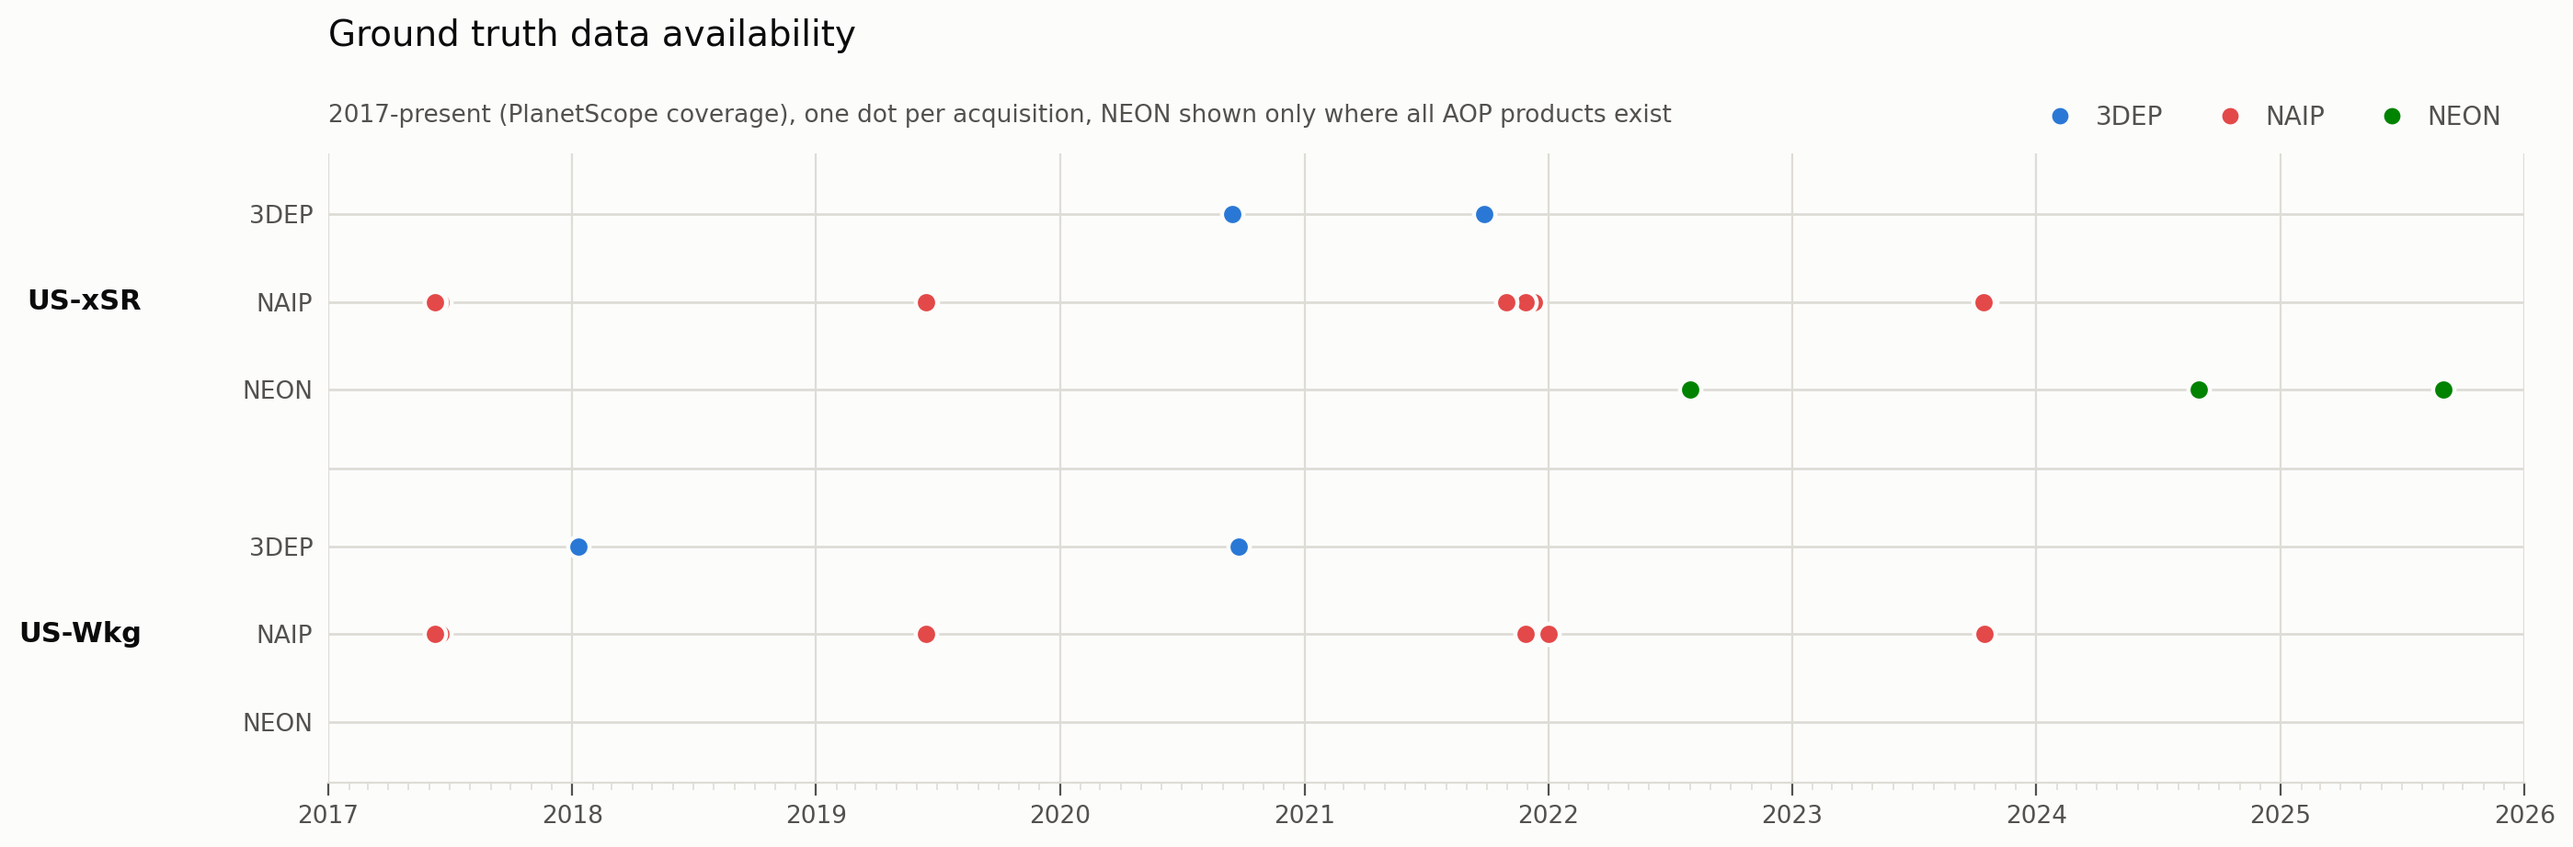
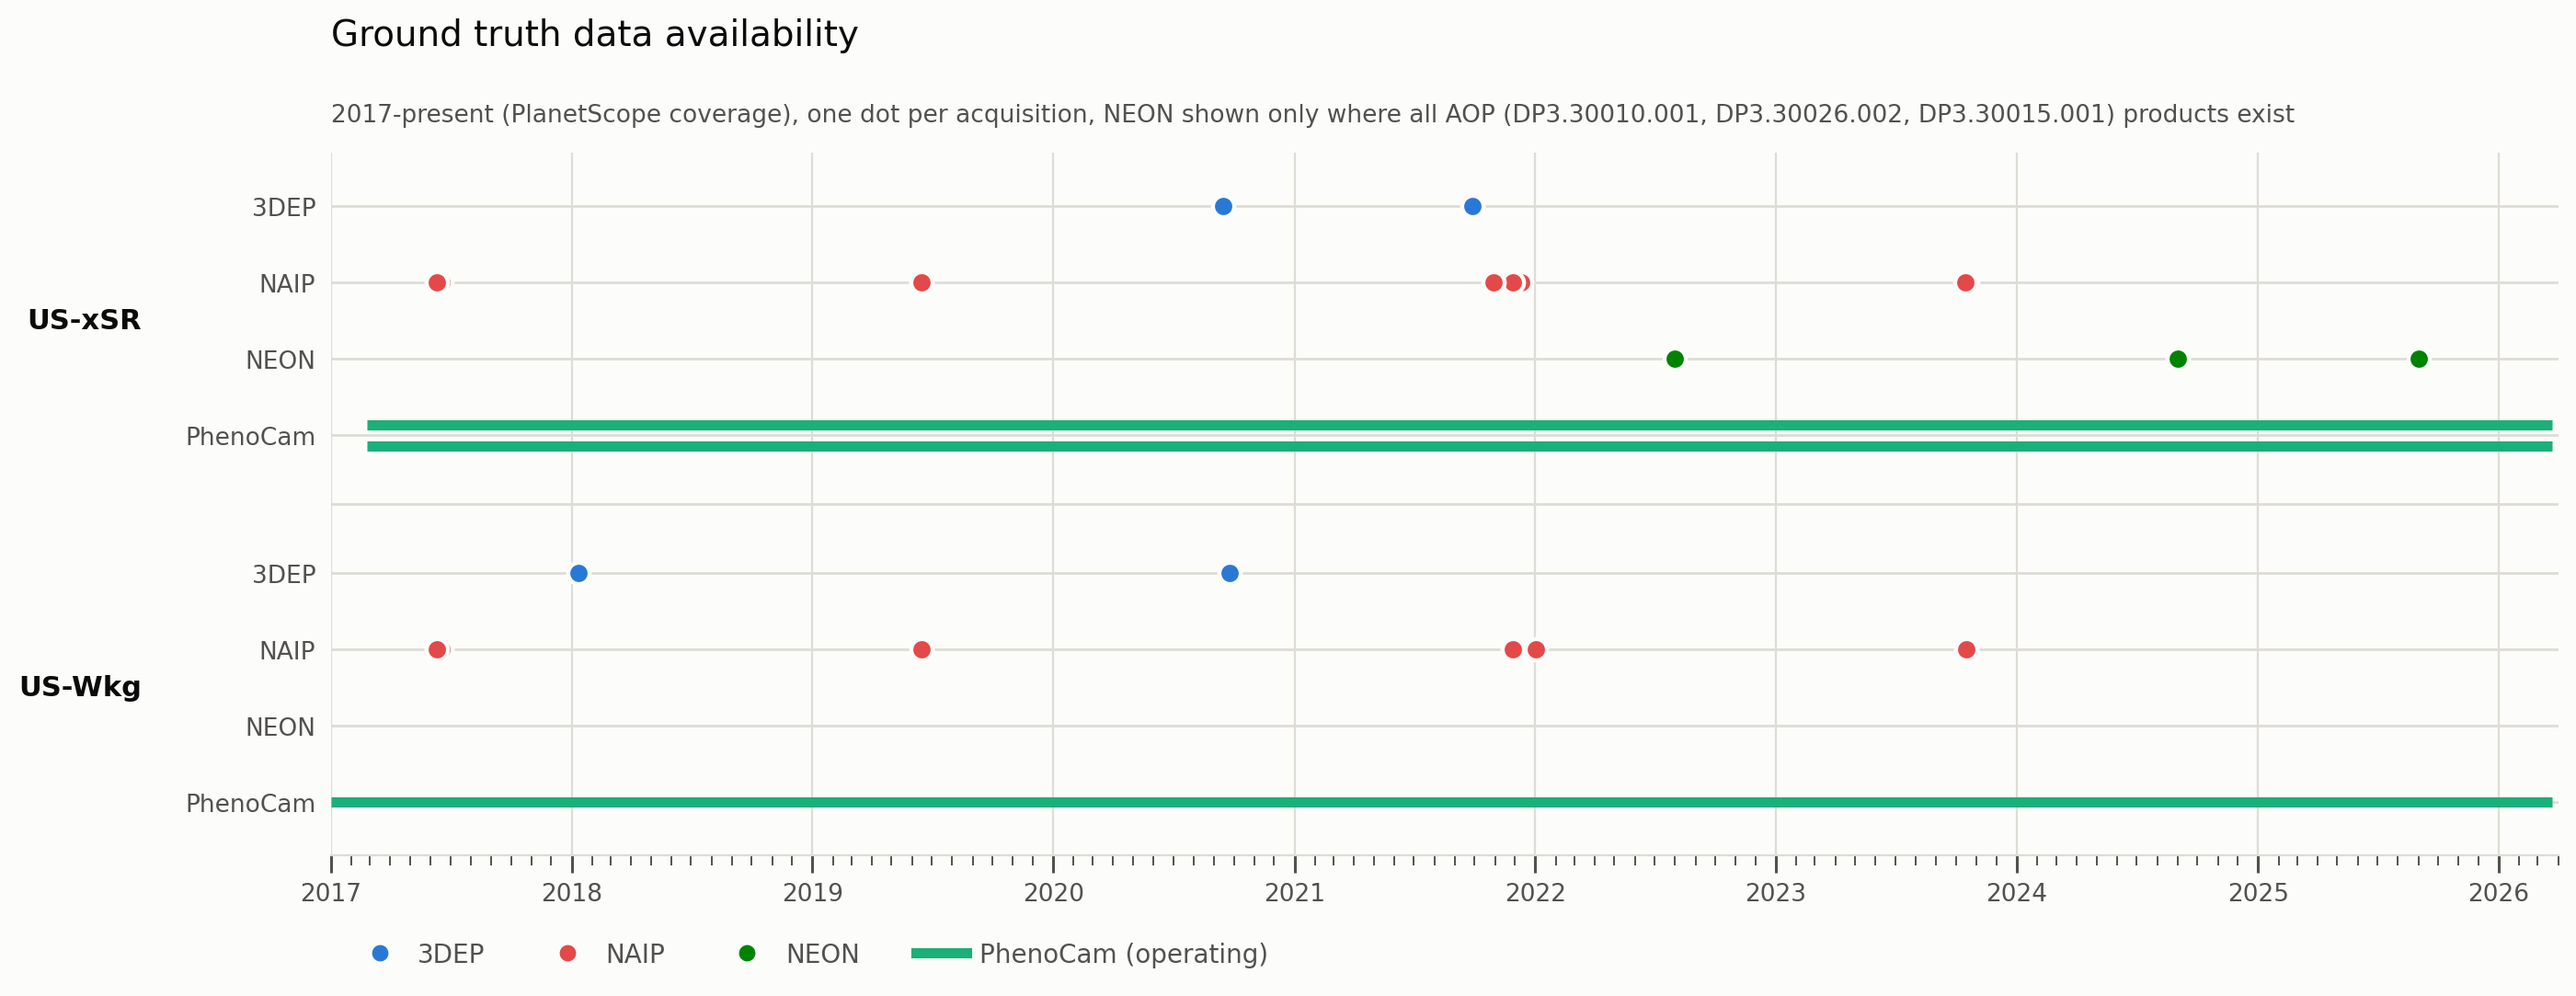
run_data_availability_timeline script added phenocam

diff --git a/code/selected_sites_info/run_data_availability_timeline.py b/code/selected_sites_info/run_data_availability_timeline.py
@@ -31,19 +31,25 @@ SITES_CSV = INFO_DIR / "02_selected_sites_short_2.csv"
 DEP_CSV = INFO_DIR / "3dep_data_availability.csv"
 NAIP_CSV = INFO_DIR / "naip_data_availability.csv"
 NEON_CSV = INFO_DIR / "neon_data_availability.csv"
+LONG_CSV = INFO_DIR / "03_selected_sites_long_2.csv"
 OUT_PNG = INFO_DIR / "data_availability_timeline.png"
 
 # PlanetScope coverage starts in 2017, so earlier acquisitions are not plotted
 MIN_YEAR = 2017
 
-# categorical slots 1 / 6 / 8 of the validated reference palette
+# categorical slots 1 / 8 / 6 / 3 of the validated reference palette
 SOURCES = OrderedDict(
     [
         ("3DEP", "#2a78d6"),  # blue
         ("NAIP", "#e34948"),  # red
         ("NEON", "#008300"),  # green
+        ("PhenoCam", "#1baf7a"),  # aqua-green, distinct from the NEON green
     ]
 )
+DOT_SOURCES = ("3DEP", "NAIP", "NEON")
+
+# vertical offsets for the two phenocam spans inside the PhenoCam row
+CAM_OFFSETS = (0.14, -0.14)
 
 SURFACE = "#fcfcfb"
 TEXT_PRIMARY = "#0b0b0b"
@@ -84,22 +90,72 @@ def read_simple_dates(path, column):
     return out
 
 
+def parse_day(value):
+    """Parse a YYYY-MM-DD cell, returning None when blank or malformed."""
+    match = re.match(r"\s*(\d{4})-(\d{2})-(\d{2})", value or "")
+    return date(*(int(g) for g in match.groups())) if match else None
+
+
+def read_phenocam_spans(path, min_year):
+    """Return {site_id: [(name, start, end), ...]} for phenocam 1 and 2.
+
+    Spans starting before min_year are clipped to it; a missing date_last is
+    treated as still running, so it extends to today.
+    """
+    floor = date(min_year, 1, 1)
+    today = date.today()
+    out = {}
+    with open(path, newline="") as f:
+        for row in csv.DictReader(f):
+            site_id = (row.get("site_id") or "").strip()
+            if not site_id:
+                continue
+            spans = []
+            for n in (1, 2):
+                name = (row.get(f"phenocam{n}") or "").strip()
+                if not name:
+                    continue
+                start = parse_day(row.get(f"(p{n})date_first"))
+                end = parse_day(row.get(f"(p{n})date_last")) or today
+                if not start:
+                    print(
+                        f"warning: {site_id} phenocam{n} has no date_first, skipping",
+                        file=sys.stderr,
+                    )
+                    continue
+                start = max(start, floor)
+                if end > start:
+                    spans.append((name, start, end))
+            out[site_id] = spans
+    return out
+
+
 def read_neon_dates(path):
-    """Return {neon_id: [date, ...]} for months where all_products is true."""
+    """Return ({neon_id: [date, ...]}, [product_id, ...]).
+
+    Dates are the months where all_products is true; the product ids are the
+    per-product columns those months were intersected from.
+    """
     out = {}
     with open(path, newline="") as f:
         reader = csv.DictReader(f)
-        if "year_month" not in (reader.fieldnames or []):
+        fields = reader.fieldnames or []
+        if "year_month" not in fields:
             sys.exit(
                 f"{path} has no year_month column - re-run run_neon_availability.py"
             )
+        products = [
+            c
+            for c in fields
+            if c not in ("neon_id", "year", "month", "year_month", "all_products")
+        ]
         for row in reader:
             if str(row.get("all_products", "")).strip() != "1":
                 continue
             neon_id = (row.get("neon_id") or "").strip()
             year, month = (row.get("year_month") or "").split("-")
             out.setdefault(neon_id, []).append(date(int(year), int(month), 1))
-    return out
+    return out, products
 
 
 def main():
@@ -108,6 +164,7 @@ def main():
     ap.add_argument("--dep-csv", type=Path, default=DEP_CSV)
     ap.add_argument("--naip-csv", type=Path, default=NAIP_CSV)
     ap.add_argument("--neon-csv", type=Path, default=NEON_CSV)
+    ap.add_argument("--long-csv", type=Path, default=LONG_CSV)
     ap.add_argument("--out-png", type=Path, default=OUT_PNG)
     ap.add_argument(
         "--min-year",
@@ -120,38 +177,49 @@ def main():
     sites = read_site_order(args.sites_csv)
     dep = read_simple_dates(args.dep_csv, "lidar_dates")
     naip = read_simple_dates(args.naip_csv, "naip_dates")
-    neon = read_neon_dates(args.neon_csv)
+    neon, neon_products = read_neon_dates(args.neon_csv)
+    phenocam = read_phenocam_spans(args.long_csv, args.min_year)
 
     # build the row layout: one band per site, one row per source within it
-    rows = []  # (y, site_id, source, [dates])
+    rows = []  # (y, site_id, source, [dates], [(name, start, end), ...])
     y = 0.0
     band_centers = OrderedDict()
     for site_id, neon_id in sites.items():
         band_top = y
         for source in SOURCES:
+            dates, spans = [], []
             if source == "3DEP":
                 dates = dep.get(site_id, [])
             elif source == "NAIP":
                 dates = naip.get(site_id, [])
-            else:
+            elif source == "NEON":
                 dates = neon.get(neon_id, []) if neon_id else []
+            else:
+                spans = phenocam.get(site_id, [])
             dates = [d for d in dates if d.year >= args.min_year]
-            rows.append((y, site_id, source, dates))
+            rows.append((y, site_id, source, dates, spans))
             y -= ROW_STEP
         band_centers[site_id] = (band_top + (y + ROW_STEP)) / 2
         y -= BAND_GAP
 
-    all_dates = [d for _, _, _, dates in rows for d in dates]
+    all_dates = [d for _, _, _, dates, _ in rows for d in dates]
+    all_dates += [end for _, _, _, _, spans in rows for _, _, end in spans]
     if not all_dates:
         sys.exit("No dates found in any availability CSV")
     x_min = date(args.min_year, 1, 1)
-    x_max = date(max(all_dates).year + 1, 1, 1)
+    # stop at the month after the last acquisition rather than the next new year
+    latest = max(all_dates)
+    x_max = (
+        date(latest.year + 1, 1, 1)
+        if latest.month == 12
+        else date(latest.year, latest.month + 1, 1)
+    )
 
     height = 1.6 + 0.42 * len(rows) + 0.3 * len(sites)
     fig, ax = plt.subplots(figsize=(14, height), facecolor=SURFACE)
     ax.set_facecolor(SURFACE)
 
-    for row_y, _, source, dates in rows:
+    for row_y, _, source, dates, spans in rows:
         # recessive guide line so empty rows still read as a row
         ax.plot(
             [x_min, x_max],
@@ -171,6 +239,18 @@ def main():
                 linewidths=1.6,
                 zorder=3,
                 clip_on=False,
+            )
+        # phenocam operating periods: one filled line per camera, offset so two
+        # cameras with the same range stay individually visible
+        for index, (_, start, end) in enumerate(spans):
+            offset = CAM_OFFSETS[index] if len(spans) > 1 else 0.0
+            ax.plot(
+                [start, end],
+                [row_y + offset] * 2,
+                color=SOURCES[source],
+                linewidth=4,
+                solid_capstyle="butt",
+                zorder=3,
             )
 
     # site band labels and separators
@@ -194,8 +274,8 @@ def main():
                 zorder=0,
             )
 
-    ax.set_yticks([row_y for row_y, _, _, _ in rows])
-    ax.set_yticklabels([source for _, _, source, _ in rows], fontsize=9.5)
+    ax.set_yticks([row_y for row_y, _, _, _, _ in rows])
+    ax.set_yticklabels([source for _, _, source, _, _ in rows], fontsize=9.5)
     ax.tick_params(axis="y", length=0, colors=TEXT_SECONDARY, pad=6)
     last_row_y = rows[-1][0]
     ax.set_ylim(last_row_y - 0.7, 0.7)
@@ -204,9 +284,16 @@ def main():
     ax.xaxis.set_major_locator(mdates.YearLocator())
     ax.xaxis.set_major_formatter(mdates.DateFormatter("%Y"))
     ax.xaxis.set_minor_locator(mdates.MonthLocator())
-    ax.tick_params(axis="x", which="major", colors=TEXT_SECONDARY, labelsize=9.5, length=5)
+    ax.tick_params(
+        axis="x",
+        which="major",
+        colors=TEXT_SECONDARY,
+        labelsize=9.5,
+        length=7,
+        width=1.1,
+    )
     # month ticks stay as tick marks only - no vertical gridlines
-    ax.tick_params(axis="x", which="minor", colors=GRID, length=3)
+    ax.tick_params(axis="x", which="minor", color=TEXT_SECONDARY, length=4, width=0.7)
     ax.grid(axis="x", which="major", color=GRID, linewidth=0.8, zorder=0)
     ax.grid(axis="x", which="minor", visible=False)
     ax.set_axisbelow(True)
@@ -224,7 +311,8 @@ def main():
         pad=42,
     )
     ax.annotate(
-        f"{args.min_year}-present (PlanetScope coverage), one dot per acquisition, NEON shown only where all AOP products exist",
+        f"{args.min_year}-present (PlanetScope coverage), one dot per acquisition, "
+        f"NEON shown only where all AOP ({', '.join(neon_products)}) products exist",
         xy=(0, 1.0),
         xytext=(0, 12),
         xycoords="axes fraction",
@@ -245,17 +333,21 @@ def main():
             markeredgewidth=1.6,
             label=source,
         )
+        if source in DOT_SOURCES
+        # phenocam is an operating period, so its key is a line, not a dot
+        else plt.Line2D([], [], color=color, linewidth=4, label=f"{source} (operating)")
         for source, color in SOURCES.items()
     ]
+    # legend sits below the axis so it never collides with the subtitle
     legend = ax.legend(
         handles=handles,
-        loc="lower right",
-        bbox_to_anchor=(1, 1.0),
+        loc="upper left",
+        bbox_to_anchor=(0, -0.09),
         ncol=len(SOURCES),
         frameon=False,
         fontsize=10,
-        handletextpad=0.4,
-        columnspacing=1.6,
+        handletextpad=0.5,
+        columnspacing=2.2,
     )
     for text in legend.get_texts():
         text.set_color(TEXT_SECONDARY)
@@ -264,9 +356,16 @@ def main():
     fig.savefig(args.out_png, dpi=200, facecolor=SURFACE, bbox_inches="tight")
     print(f"Wrote {args.out_png}")
 
-    for _, site_id, source, dates in rows:
-        label = ", ".join(d.isoformat() for d in sorted(dates, reverse=True))
-        print(f"{site_id:<8} {source:<5} {len(dates):>3}  {label or '(none)'}")
+    for _, site_id, source, dates, spans in rows:
+        if spans:
+            label = "; ".join(
+                f"{name} {start.isoformat()}..{end.isoformat()}"
+                for name, start, end in spans
+            )
+            print(f"{site_id:<8} {source:<9} {len(spans):>3}  {label}")
+        else:
+            label = ", ".join(d.isoformat() for d in sorted(dates, reverse=True))
+            print(f"{site_id:<8} {source:<9} {len(dates):>3}  {label or '(none)'}")
 
 
 if __name__ == "__main__":

diff --git a/code/code_lsp_analysis/run_check_site_pixel_quality.py b/code/code_lsp_analysis/run_check_site_pixel_quality.py
@@ -13,7 +13,7 @@ from pathlib import Path
 from tqdm import tqdm
 import matplotlib.pyplot as plt
 import pandas as pd
-import seaborn as sns∏
+import seaborn as sns
 from aquarel import load_theme
 import matplotlib as mpl
 
@@ -112,7 +112,7 @@ def save_results_to_png(csv_file, png_file, QA):
 
 
 def main(QA_level):
-    sites = ['ARM_Southern_Great_Plains_site', 'Mountainair_Pinyon-Juniper_Woodland', 'NEON_Konza_Prairie_Biological_Station', 'Santa_Rita_Grassland', 'Santa_Rita_Mesquite', 'Sevilleta_shrubland', 'Walnut_Gulch_Kendall_Grasslands', 'Walnut_Gulch_Lucky_Hills_Shrub', 'Willard_Juniper_Savannah']
+    sites = ['ARM_Southern_Great_Plains_site', 'Mountainair_Pinyon-Juniper_Woodland', 'NEON_Konza_Prairie_Biological_Station', 'Santa_Rita_Experimental_Range_NEON', 'Santa_Rita_Grassland', 'Santa_Rita_Mesquite', 'Sevilleta_shrubland', 'Walnut_Gulch_Kendall_Grasslands', 'Walnut_Gulch_Lucky_Hills_Shrub', 'Willard_Juniper_Savannah']
     print(f'{len(sites)=}')
     product_dirs = ['PLSP_production_nc', 'PLSP_stage_nc']
     print(f'{len(product_dirs)=}')
